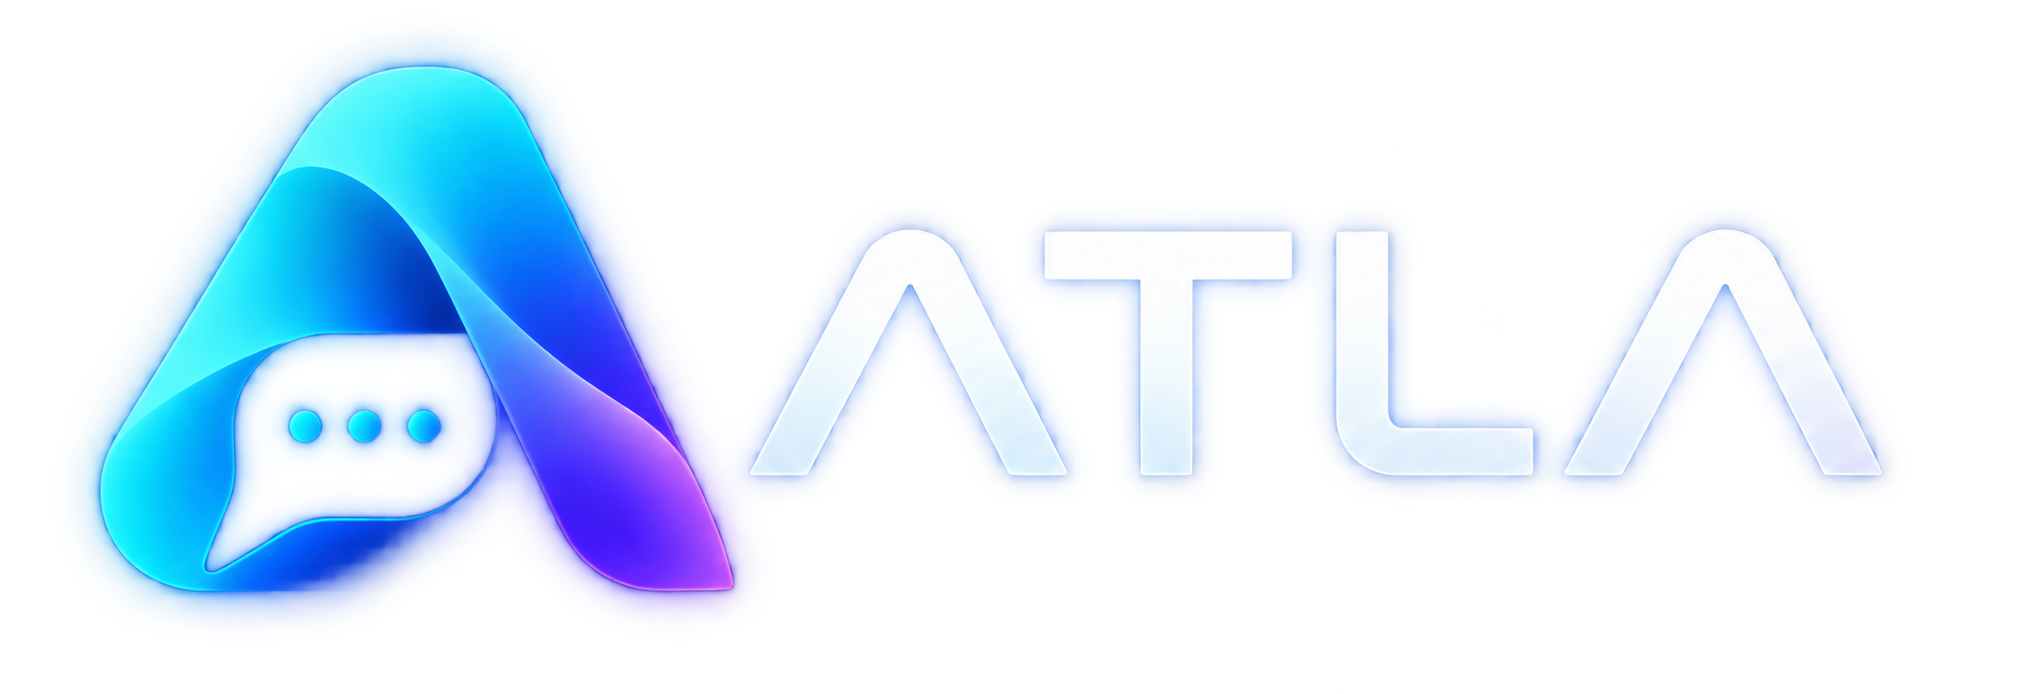
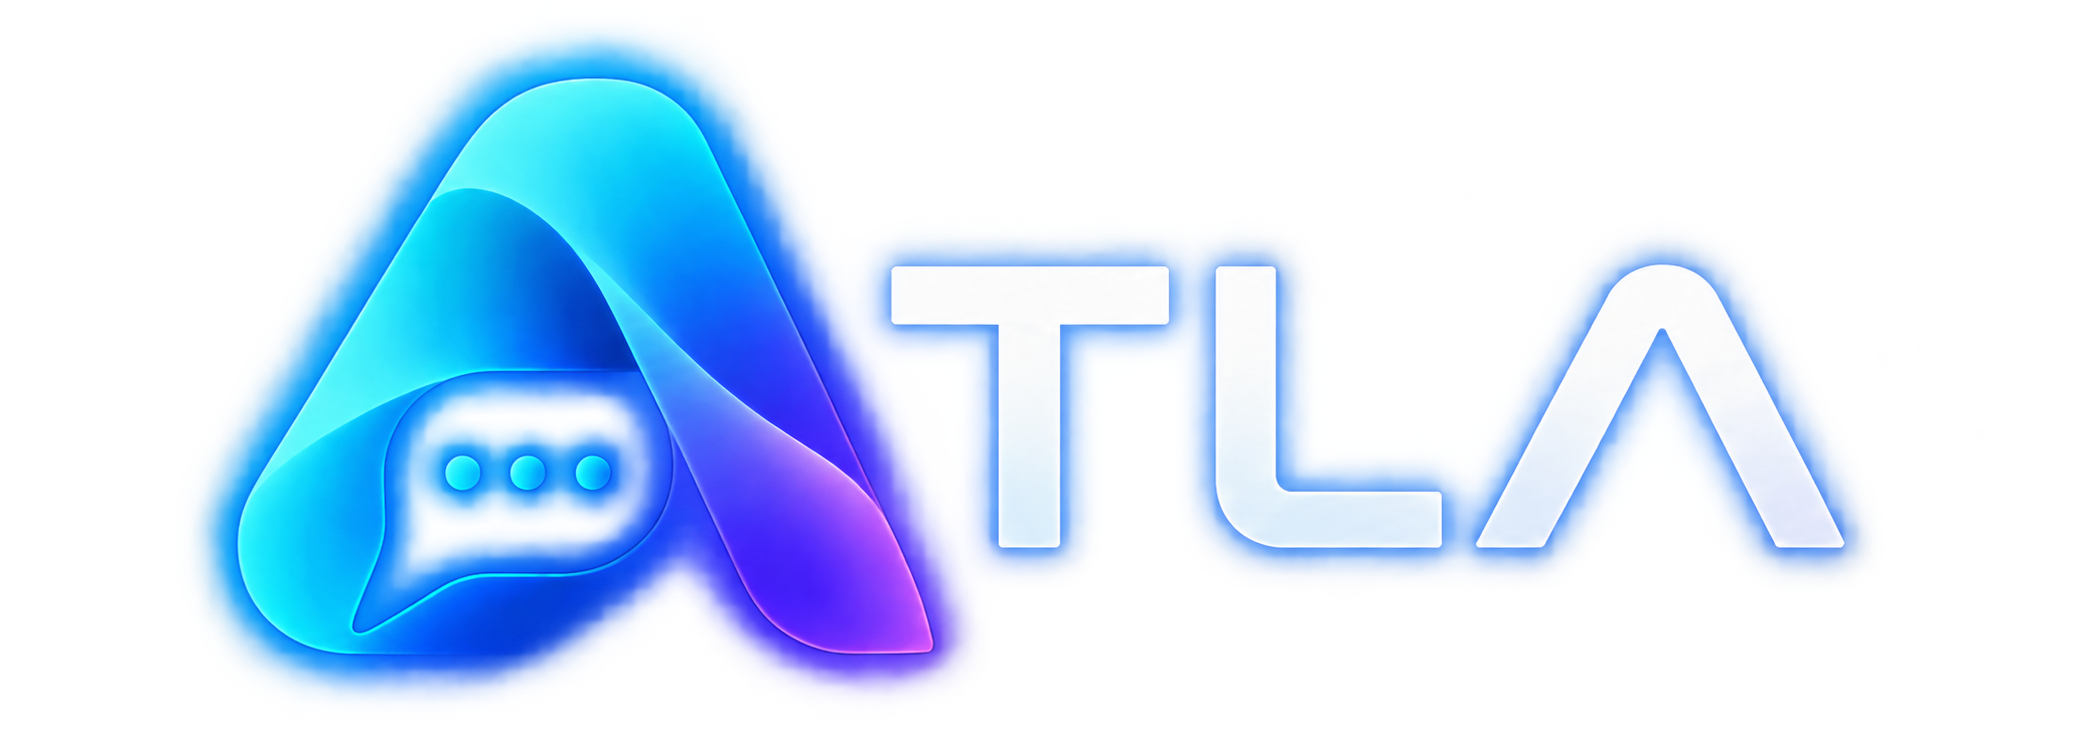
Swap in the cleaner wordmark file
The one I had been given first carried a muddy bleed round the
glow. This one has a proper halo, so the sign in screens, the
legal headers and the sharing image all get it, the sharing image
rebuilt from it rather than rescaled.

The intrinsic size on the img tags is updated to match the new
file, so the space is reserved correctly and the card does not
jump while it loads.

The app icons are untouched. They come from the separate square
mark file, and the A cannot be cropped out of this one cleanly
because its glow runs into the T.

Claude-Session: https://claude.ai/code/session_01WZ3WxhbDUZxECd2UMSGqdN

diff --git a/index.html b/index.html
@@ -66,7 +66,7 @@
 
 <script src="https://cdn.jsdelivr.net/npm/@supabase/supabase-js@2"></script>
 
-<link rel="stylesheet" href="./css/app.css?v=2026-09-24-60">
+<link rel="stylesheet" href="./css/app.css?v=2026-09-24-61">
 </head>
 
 <body>
@@ -113,7 +113,7 @@
     <div class="logoLarge">
       <picture class="logoWordmark">
         <source srcset="./ATLA-Wordmark.webp" type="image/webp">
-        <img src="./ATLA-Wordmark.png" alt="Atla" width="2022" height="694">
+        <img src="./ATLA-Wordmark.png" alt="Atla" width="2093" height="734">
       </picture>
     </div>
 
@@ -219,7 +219,7 @@
     <div class="logoLarge">
       <picture class="logoWordmark">
         <source srcset="./ATLA-Wordmark.webp" type="image/webp">
-        <img src="./ATLA-Wordmark.png" alt="Atla" width="2022" height="694">
+        <img src="./ATLA-Wordmark.png" alt="Atla" width="2093" height="734">
       </picture>
     </div>
 
@@ -2644,8 +2644,8 @@
   </div>
 </div>
 
-<script>window.NASTIVEE_VERSION = '2026-09-24-60';</script>
-<script src="./js/app.js?v=2026-09-24-60"></script>
+<script>window.NASTIVEE_VERSION = '2026-09-24-61';</script>
+<script src="./js/app.js?v=2026-09-24-61"></script>
 
 </body>
 </html>
